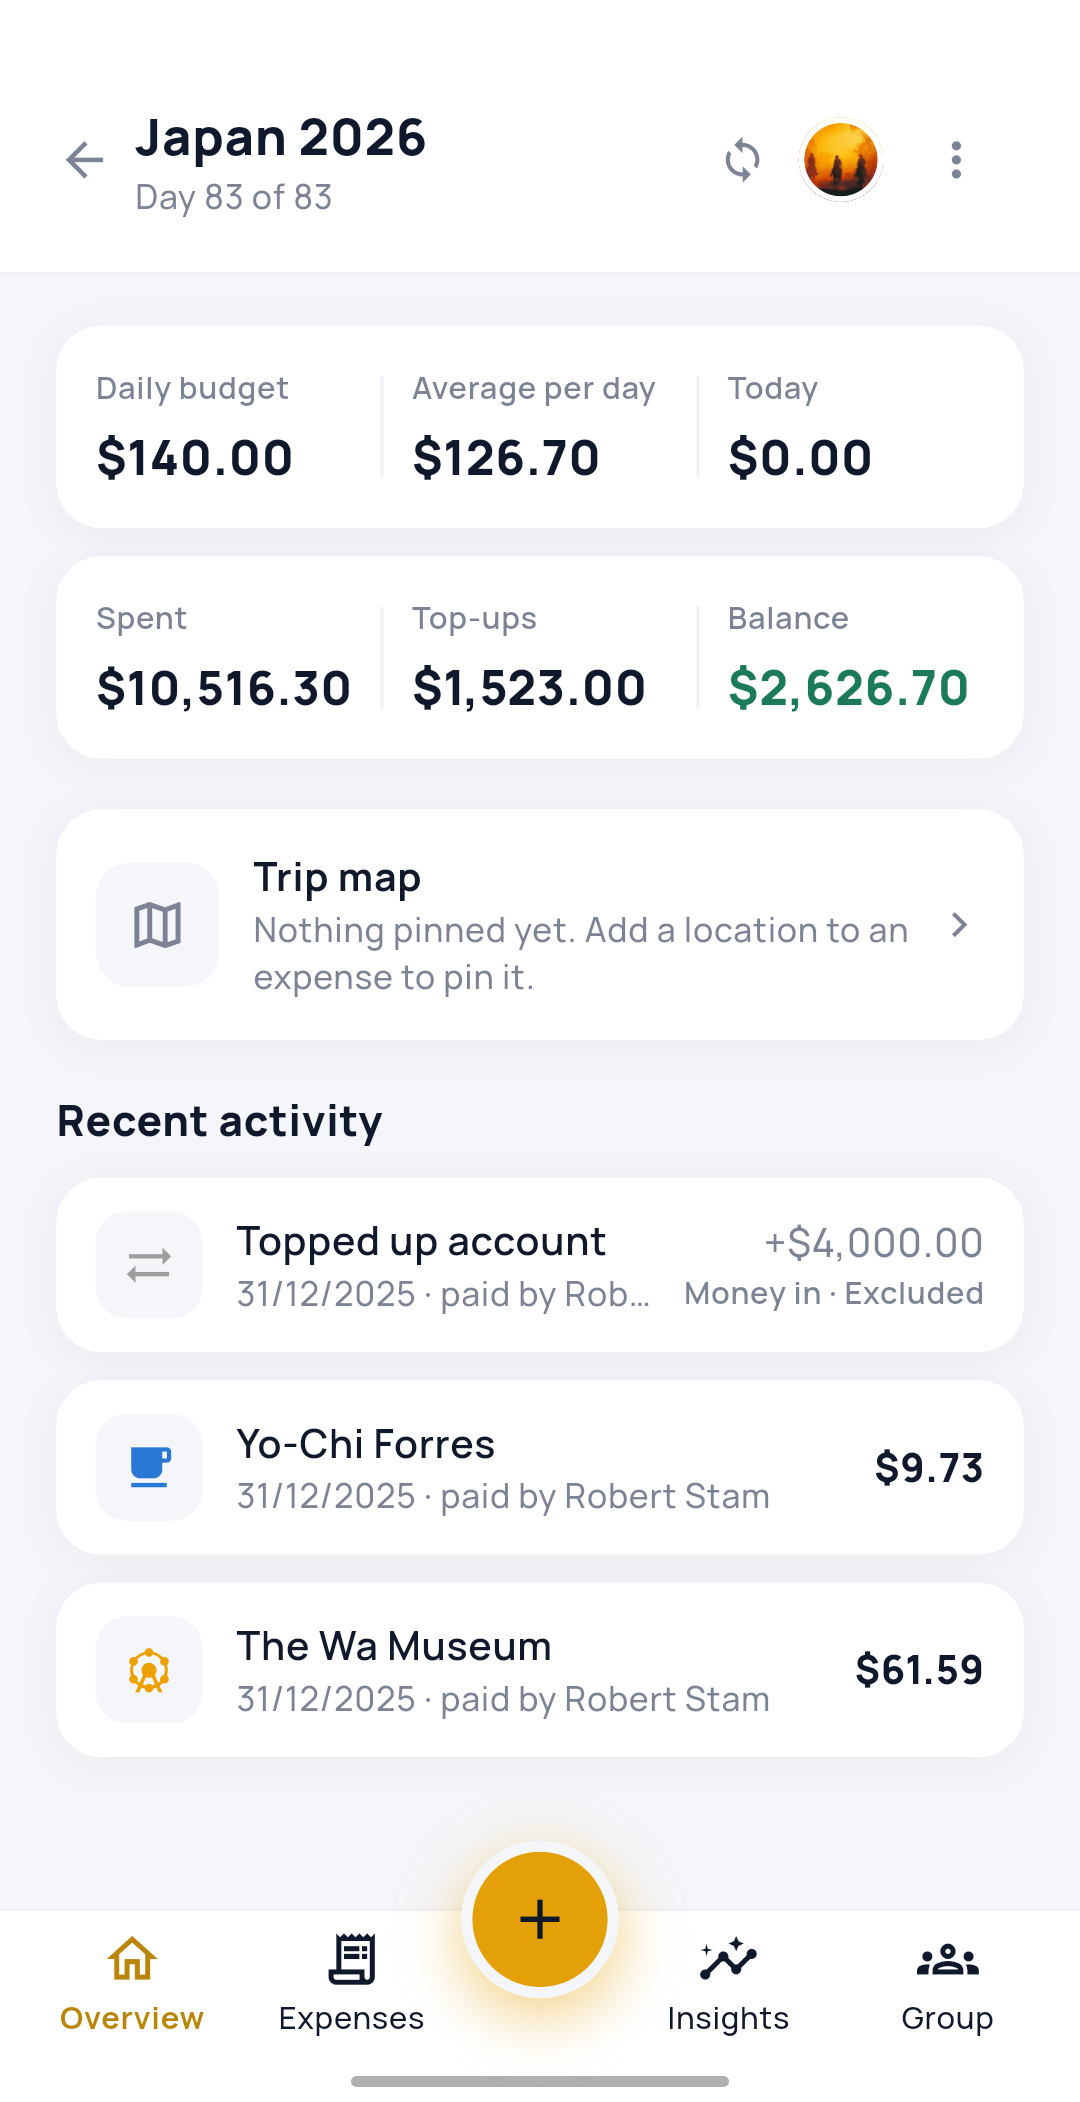
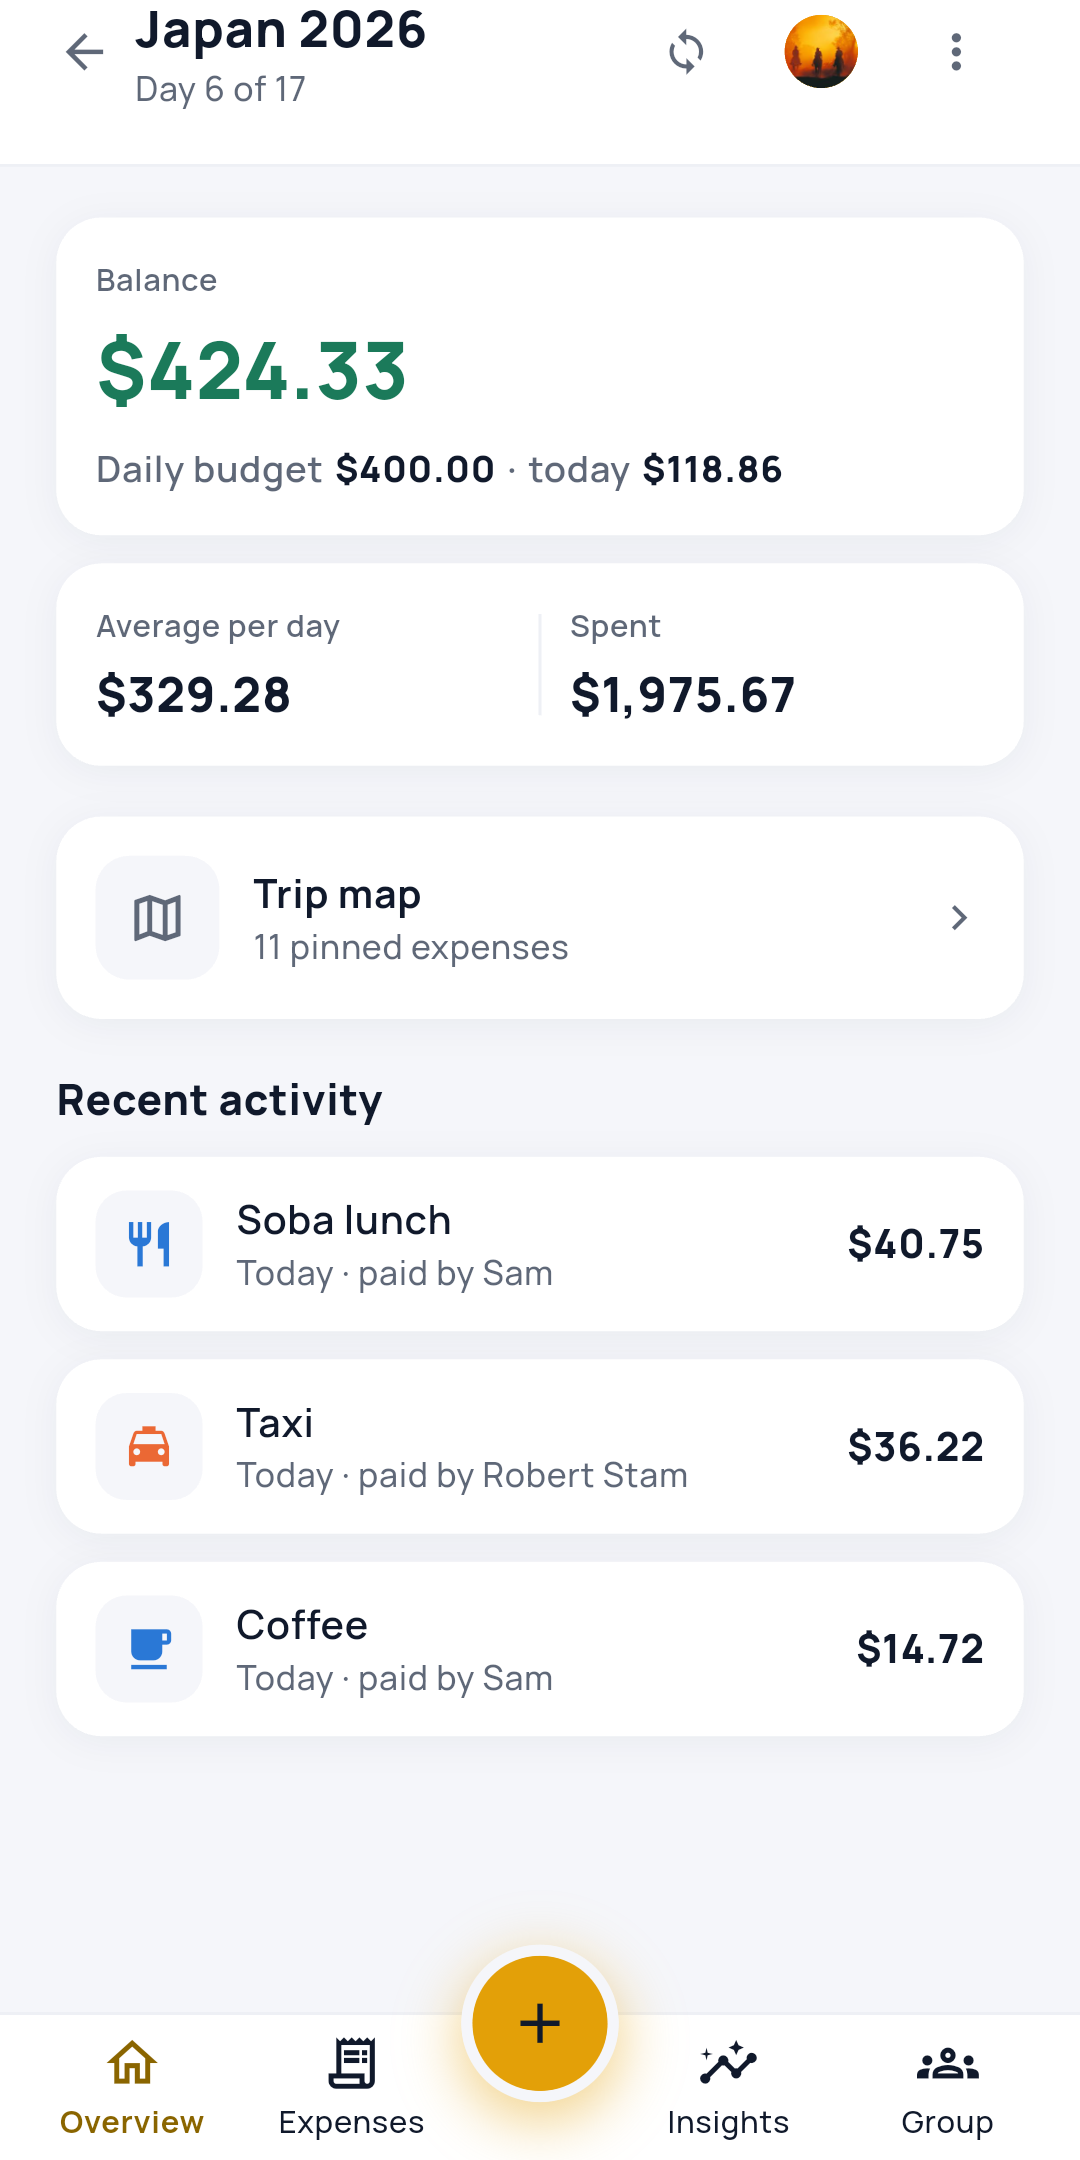
Site: new screenshots and features for build 46
Eight screenshots from build 46 (receipt scan, trip map with Directions,
archived trips), one active trip on Free, NZ$49.99 a year, directions on
the map. Publish when build 46 is live on Production; the Play button
still points at the open test until then.

diff --git a/index.html b/index.html
@@ -252,48 +252,48 @@
     <div class="sec-head">
       <p class="eyebrow">A look inside</p>
       <h2>See it in action</h2>
-      <p class="rail-hint">These are real screens from a real trip.</p>
+      <p class="rail-hint">Real screens from the app, shown with a sample trip.</p>
     </div>
 
     <div class="rail">
       <figure class="shot">
-        <img src="shots/01-overview.png" alt="The Overview tab: daily budget $140.00, average per day $126.70, today $0.00; then spent $10,516.30, top-ups $1,523.00 and a balance of $2,626.70, a trip map row, and recent activity." loading="lazy" width="1080" height="2102">
+        <img src="shots/01-overview.png" alt="The Overview tab for Japan 2026: a balance of $424.33, a daily budget of $400.00, the average per day and amount spent, a trip map row with 11 pinned expenses, and recent activity." loading="lazy" width="1080" height="2160">
         <figcaption><b>Your trip, at a glance</b><span>See your balance, daily spending average and latest expenses in one place.</span></figcaption>
       </figure>
 
       <figure class="shot">
-        <img src="shots/02-expenses.png" alt="The Expenses tab, with a Filter button and every expense listed by day." loading="lazy" width="1080" height="2102">
+        <img src="shots/02-expenses.png" alt="The Expenses tab, with a Filter button and expenses grouped by day with each day&rsquo;s total." loading="lazy" width="1080" height="2160">
         <figcaption><b>All your spending, organised</b><span>Find any expense, filter the list and update several entries at once.</span></figcaption>
       </figure>
 
       <figure class="shot">
-        <img src="shots/03-insights.png" alt="Insights: budget to date, spent, top-ups and balance, above a donut chart of spend by category." loading="lazy" width="1080" height="2102">
+        <img src="shots/03-receipt.png" alt="Add expense after scanning a Japanese ramen receipt: 3,470 yen, about $39.19, filed under Restaurants and named Ramen Tanuki Shinjuku, each marked From your receipt." loading="lazy" width="1080" height="2160">
+        <figcaption><b>Scan a receipt</b><span>Snap a receipt in any language and Travel Kitty fills in the amount, currency, category and shop for you to check.</span></figcaption>
+      </figure>
+
+      <figure class="shot">
+        <img src="shots/04-insights.png" alt="Insights: budget to date, spent and balance, above a donut chart of spending by category." loading="lazy" width="1080" height="2160">
         <figcaption><b>Know where it goes</b><span>See what you&rsquo;re spending by category, traveller or day.</span></figcaption>
       </figure>
 
       <figure class="shot">
-        <img src="shots/04-people.png" alt="Insights by person: what each traveller paid, what their share is, and that both are square." loading="lazy" width="1080" height="2102">
+        <img src="shots/05-map.png" alt="The trip map of Japan with pins in Tokyo and Kyoto, and a card for a shrine charm with Directions and Edit buttons." loading="lazy" width="1080" height="2160">
+        <figcaption><b>Every place, on the map</b><span>Pin where you spent it, then get directions back there in Google Maps.</span></figcaption>
+      </figure>
+
+      <figure class="shot">
+        <img src="shots/06-group.png" alt="The Group tab: an Invite button, the two people on the trip, what each owes or is owed, and one suggested payment." loading="lazy" width="1080" height="2160">
+        <figcaption><b>Settle up whenever you&rsquo;re ready</b><span>See who owes whom and get the simplest set of payments to square everyone up.</span></figcaption>
+      </figure>
+
+      <figure class="shot">
+        <img src="shots/07-people.png" alt="Insights by person: what each traveller paid, what their share is, and what they owe or are owed." loading="lazy" width="1080" height="2160">
         <figcaption><b>Keep things fair</b><span>See what everyone has paid and what their share should be. No awkward guesswork.</span></figcaption>
       </figure>
 
       <figure class="shot">
-        <img src="shots/05-daily.png" alt="Insights by day: a bar for each day of the trip, in red when it ran over the daily budget." loading="lazy" width="1080" height="2102">
-        <figcaption><b>Spot your spending trends</b><span>See which days cost the most and whether you&rsquo;re staying within budget.</span></figcaption>
-      </figure>
-
-      <figure class="shot">
-        <img src="shots/07-split.png" alt="The Add expense form: amount, currency, category, description, location, photo, date, who paid, and who it splits between." loading="lazy" width="1080" height="2102">
-        <figcaption><b>Capture every detail</b><span>Record the amount, currency, location, photo, payer and who shared the cost.</span></figcaption>
-      </figure>
-
-      <figure class="shot">
-        <img src="shots/09-topups.png" alt="The Top-ups sheet, listing one top-up with a button to add another." loading="lazy" width="1080" height="2102">
-        <figcaption><b>Add money, not pressure</b><span>Add money to your trip or record money set aside for it. Your balance changes, but your daily budget stays the same.</span></figcaption>
-      </figure>
-
-      <figure class="shot">
-        <img src="shots/06-group.png" alt="The Group tab: an Invite button, the people on the trip, and suggested payments, which reads Everyone is square." loading="lazy" width="1080" height="2102">
-        <figcaption><b>Settle up whenever you&rsquo;re ready</b><span>See who owes whom and get the simplest set of payments to square everyone up.</span></figcaption>
+        <img src="shots/08-trips.png" alt="My trips: Japan 2026 and New Zealand with cover photos, and two archived trips, Queenstown ski and Melbourne weekend." loading="lazy" width="1080" height="2160">
+        <figcaption><b>Archive finished trips</b><span>Keep every past trip to look back on. Archived trips don&rsquo;t count toward your Free trip.</span></figcaption>
       </figure>
     </div>
   </section>
@@ -321,7 +321,7 @@
         <p class="grp">Make every trip yours</p>
         <ul class="feat">
           <li><svg width="16" height="16" viewBox="0 0 16 16" fill="none" aria-hidden="true" style="color:var(--tick)"><circle cx="8" cy="8" r="7" stroke="currentColor" stroke-width="1.6"/><path d="M5 8.2l2 2 4-4.2" stroke="currentColor" stroke-width="1.8" stroke-linecap="round" stroke-linejoin="round"/></svg>
-            <div><b>Create up to two trips</b><small>Create up to two trips of your own, for free. Trips someone else invites you to don&rsquo;t count towards your limit, so you can join as many as you like.</small></div></li>
+            <div><b>One active trip, unlimited archived</b><small>Run one trip of your own at a time, for free. When it&rsquo;s over, archive it to start the next. Archived trips stay there to look back on, and trips someone else invites you to don&rsquo;t count, so you can join as many as you like.</small></div></li>
           <li><svg width="16" height="16" viewBox="0 0 16 16" fill="none" aria-hidden="true" style="color:var(--tick)"><circle cx="8" cy="8" r="7" stroke="currentColor" stroke-width="1.6"/><path d="M5 8.2l2 2 4-4.2" stroke="currentColor" stroke-width="1.8" stroke-linecap="round" stroke-linejoin="round"/></svg>
             <div><b>Up to 20 people per trip</b><small>Travelling with friends, family or a group? Invite up to 20 people to any trip. Your plan won&rsquo;t limit the people you can bring along.</small></div></li>
           <li><svg width="16" height="16" viewBox="0 0 16 16" fill="none" aria-hidden="true" style="color:var(--tick)"><circle cx="8" cy="8" r="7" stroke="currentColor" stroke-width="1.6"/><path d="M5 8.2l2 2 4-4.2" stroke="currentColor" stroke-width="1.8" stroke-linecap="round" stroke-linejoin="round"/></svg>
@@ -332,7 +332,7 @@
         <p class="grp">Know where everyone stands</p>
         <ul class="feat">
           <li><svg width="16" height="16" viewBox="0 0 16 16" fill="none" aria-hidden="true" style="color:var(--tick)"><circle cx="8" cy="8" r="7" stroke="currentColor" stroke-width="1.6"/><path d="M5 8.2l2 2 4-4.2" stroke="currentColor" stroke-width="1.8" stroke-linecap="round" stroke-linejoin="round"/></svg>
-            <div><b>Charts, payments, top-ups and maps</b><small>See where your money goes with Insights, find the easiest way to settle up, keep track of top-ups and refunds, and pin the places you&rsquo;ve spent money on the map.</small></div></li>
+            <div><b>Charts, payments, top-ups and maps</b><small>See where your money goes with Insights, find the easiest way to settle up, keep track of top-ups and refunds, and pin the places you&rsquo;ve spent money on the map, with directions back to each one.</small></div></li>
           <li><svg width="16" height="16" viewBox="0 0 16 16" fill="none" aria-hidden="true" style="color:var(--tick)"><circle cx="8" cy="8" r="7" stroke="currentColor" stroke-width="1.6"/><path d="M5 8.2l2 2 4-4.2" stroke="currentColor" stroke-width="1.8" stroke-linecap="round" stroke-linejoin="round"/></svg>
             <div><b>Import transactions from your bank</b><small>Bank in New Zealand? You can connect your own accounts through Akahu. It takes a little setting up: you create a personal app with Akahu, then add its tokens under Settings &rarr; Advanced. Transactions arrive uncategorised, ready for you to review and assign categories.</small></div></li>
           <li><svg width="16" height="16" viewBox="0 0 16 16" fill="none" aria-hidden="true" style="color:var(--tick)"><circle cx="8" cy="8" r="7" stroke="currentColor" stroke-width="1.6"/><path d="M5 8.2l2 2 4-4.2" stroke="currentColor" stroke-width="1.8" stroke-linecap="round" stroke-linejoin="round"/></svg>
@@ -350,18 +350,18 @@
 
       <div class="plan premium">
         <h3>Premium</h3>
-        <p class="price"><b>NZ$4.99</b> a month or <b>NZ$39.99</b> a year</p>
+        <p class="price"><b>NZ$4.99</b> a month or <b>NZ$49.99</b> a year</p>
         <p class="plan-intro">For those who want a little more room to travel, keep everything organised and spend less time sorting out expenses.</p>
         <p class="grp">Everything in Free, plus a little extra</p>
         <ul class="feat">
           <li><svg width="16" height="16" viewBox="0 0 16 16" fill="none" aria-hidden="true"><circle cx="8" cy="8" r="7" fill="#E3A008"/><path d="M5 8.2l2 2 4-4.2" stroke="#10192B" stroke-width="1.8" stroke-linecap="round" stroke-linejoin="round"/></svg>
-            <div><b>Unlimited trips</b><small>Two trips aren&rsquo;t always enough. With Premium, create as many of your own trips as you need. Everything you&rsquo;ve already entered stays right where it is.</small></div></li>
+            <div><b>Unlimited trips</b><small>Planning more than one trip at once? With Premium, run as many of your own trips as you need. Everything you&rsquo;ve already entered stays right where it is.</small></div></li>
           <li><svg width="16" height="16" viewBox="0 0 16 16" fill="none" aria-hidden="true"><circle cx="8" cy="8" r="7" fill="#E3A008"/><path d="M5 8.2l2 2 4-4.2" stroke="#10192B" stroke-width="1.8" stroke-linecap="round" stroke-linejoin="round"/></svg>
             <div><b>Your photos, backed up</b><small>Your place photos are stored and shared with everyone on the trip. Get a new phone? Your photos come with you.</small></div></li>
           <li><svg width="16" height="16" viewBox="0 0 16 16" fill="none" aria-hidden="true"><circle cx="8" cy="8" r="7" fill="#E3A008"/><path d="M5 8.2l2 2 4-4.2" stroke="#10192B" stroke-width="1.8" stroke-linecap="round" stroke-linejoin="round"/></svg>
             <div><b>Scan 300 receipts a month</b><small>Keep scanning after your first three. Each receipt is backed up with its expense and stays private to you, so a new phone won&rsquo;t lose it.</small></div></li>
           <li><svg width="16" height="16" viewBox="0 0 16 16" fill="none" aria-hidden="true"><circle cx="8" cy="8" r="7" fill="#E3A008"/><path d="M5 8.2l2 2 4-4.2" stroke="#10192B" stroke-width="1.8" stroke-linecap="round" stroke-linejoin="round"/></svg>
-            <div><b>Find places by name</b><small>Paying for lunch and want to pin where it was? Just type the name. Travel Kitty suggests places nearby and drops the pin for you.</small></div></li>
+            <div><b>Find places by name</b><small>Paying for lunch and want to pin where it was? Just type the name. Travel Kitty suggests places nearby and drops the pin for you, and Directions opens that place&rsquo;s own page in Google Maps.</small></div></li>
           <li><svg width="16" height="16" viewBox="0 0 16 16" fill="none" aria-hidden="true"><circle cx="8" cy="8" r="7" fill="#E3A008"/><path d="M5 8.2l2 2 4-4.2" stroke="#10192B" stroke-width="1.8" stroke-linecap="round" stroke-linejoin="round"/></svg>
             <div><b>Less work sorting transactions</b><small>Import from your bank and let Travel Kitty do the busywork. It reads the shop names and automatically puts transactions into the right categories, so there&rsquo;s less sorting for you to do.</small></div></li>
           <li><svg width="16" height="16" viewBox="0 0 16 16" fill="none" aria-hidden="true"><circle cx="8" cy="8" r="7" fill="#E3A008"/><path d="M5 8.2l2 2 4-4.2" stroke="#10192B" stroke-width="1.8" stroke-linecap="round" stroke-linejoin="round"/></svg>
